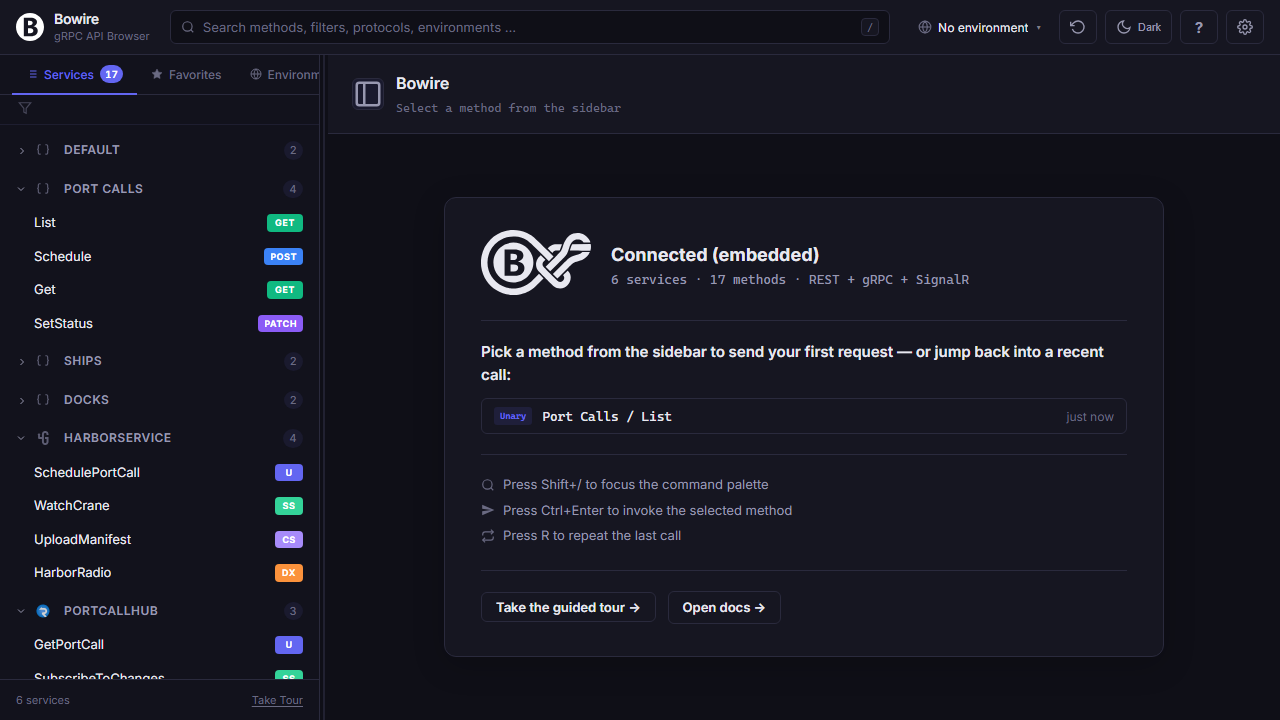
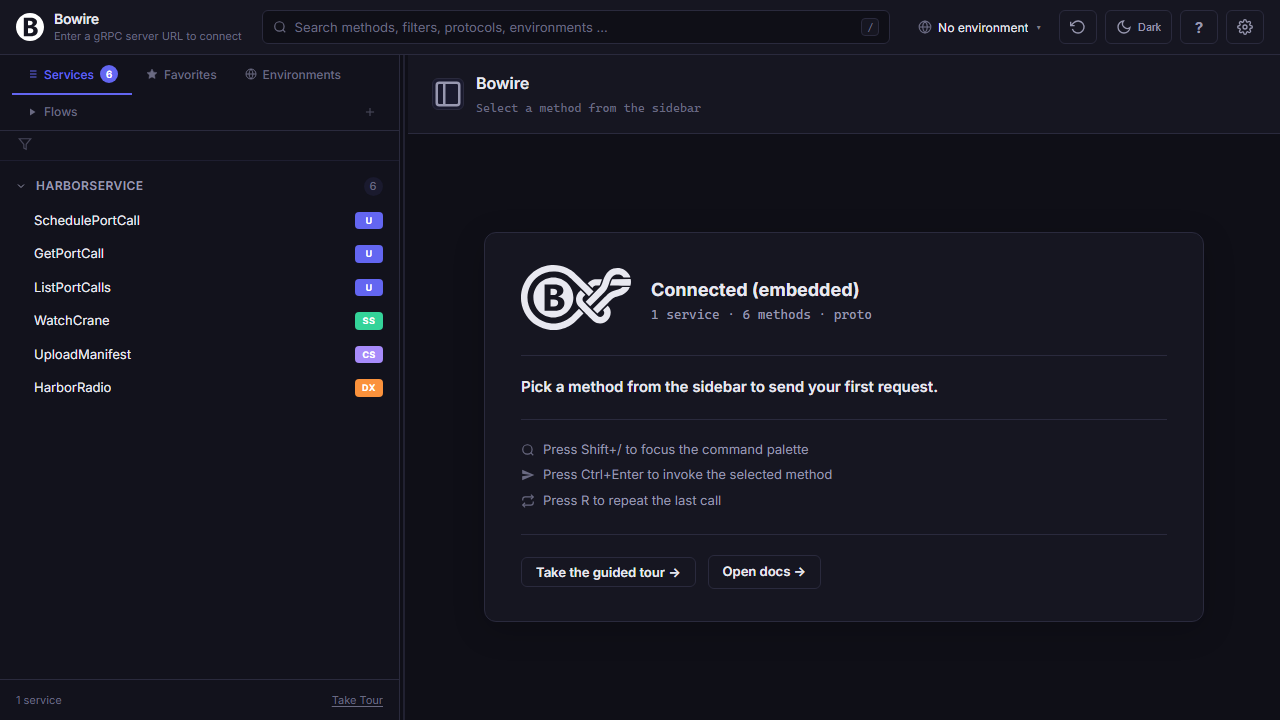
site: recapture schema-upload screenshot via real /api/proto/upload
The old schema-upload.png was the same kind of broken capture as
the empty-state screenshots fixed in 2c1dcd5 — it showed a fully
connected workbench with services and the URL header, rather than
the offline-schema-only state the surrounding caption claims.
Whoever ran the previous capture had bowire connected to a live
sample, so the screenshot looked indistinguishable from the
'Connected & ready' shot one card over.

The fix: a new scripts/capture-schema-upload.js that POSTs a real
.proto into /api/proto/upload — the same endpoint the in-UI drop
zone calls — before driving Playwright through the capture. This
sidesteps the Playwright setInputFiles pitfall (the drop zone
constructs its <input type="file"> dynamically inside the click
handler and immediately .click()s it, so there's no stable
element to target). POSTing to the endpoint is the more honest
reproduction: bytes go in the same path the user's drag-drop
would take.

The captured page now visually matches its caption — header
subtitle reads 'Enter a gRPC server URL to connect' (i.e. no URL
configured, the offline mode that the schema-upload value-prop
sells), sidebar shows the six methods parsed from harbor.proto
(SchedulePortCall, GetPortCall, ListPortCalls, WatchCrane,
UploadManifest, HarborRadio), and the centre card labels the
source as 'proto' instead of a URL. The light-theme variant
mirrors the dark one.

The harbor.proto used as the input lives in the sibling
[…]

diff --git a/scripts/capture-schema-upload.js b/scripts/capture-schema-upload.js
@@ -1,0 +1,110 @@
+/**
+ * Captures the schema-upload state by:
+ *   1. expecting a bowire process running in first-run mode (no --url)
+ *      on the configured port (default 5185 — start it externally before
+ *      invoking this script);
+ *   2. POSTing a real .proto into /api/proto/upload — the same endpoint
+ *      the in-UI drop zone uses, so the resulting visual is byte-for-
+ *      byte what a user gets after dropping a file;
+ *   3. driving Playwright to navigate, switch the source-mode tab to
+ *      "Proto", wait until the discovered services render, and shoot
+ *      the page in both themes.
+ *
+ * We deliberately don't go through the Playwright `setInputFiles` path —
+ * the in-UI drop zone constructs its <input type="file"> dynamically
+ * inside the click handler and immediately calls .click(), so there's
+ * no stable element to target. POSTing to the same endpoint the click
+ * handler hits is the cleaner reproduction.
+ *
+ * Outputs:
+ *   site/assets/images/screenshots/schema-upload-{dark,light}.png
+ *   site/assets/images/screenshots/schema-upload.png    (THEME=dark only)
+ *   docs/images/bowire-schema-upload-{dark,light}.png
+ *   docs/images/bowire-schema-upload.png                (THEME=dark only)
+ */
+const { chromium } = require('@playwright/test');
+const path = require('path');
+const fs = require('fs');
+
+const SITE_OUT = path.resolve(__dirname, '..', 'site', 'assets', 'images', 'screenshots');
+const DOCS_OUT = path.resolve(__dirname, '..', 'docs', 'images');
+const PORT = Number(process.env.PORT || 5185);
+const THEME = (process.env.THEME || 'dark').toLowerCase();
+const PROTO = process.env.PROTO || path.resolve(
+    __dirname, '..', '..', 'Bowire.Samples',
+    'src', 'Kuestenlogik.Bowire.Samples.Grpc', 'Protos', 'harbor.proto'
+);
+
+function log(m) { console.log(new Date().toISOString().slice(11, 19), m); }
+
+async function uploadProto() {
+    if (!fs.existsSync(PROTO)) {
+        throw new Error(`proto file not found: ${PROTO}`);
+    }
+    const body = fs.readFileSync(PROTO, 'utf8');
+    // Clear any previously uploaded protos so the screenshot is
+    // deterministic — older captures could otherwise stack services.
+    await fetch(`http://localhost:${PORT}/api/proto/upload`, { method: 'DELETE' }).catch(() => {});
+    const res = await fetch(`http://localhost:${PORT}/api/proto/upload`, {
+        method: 'POST',
+        body,
+        headers: { 'content-type': 'text/plain' },
+    });
+    if (!res.ok) {
+        throw new Error(`/api/proto/upload returned ${res.status}: ${await res.text()}`);
+    }
+    log(`uploaded ${path.basename(PROTO)} (${body.length} bytes)`);
+}
+
+(async () => {
+    log(`port ${PORT}, theme ${THEME}`);
+    await uploadProto();
+
+    const browser = await chromium.launch({ headless: true });
+    const ctx = await browser.newContext({
+        viewport: { width: 1280, height: 720 },
+        ignoreHTTPSErrors: true,
+        colorScheme: THEME,
+    });
+    const page = await ctx.newPage();
+    await page.emulateMedia({ colorScheme: THEME });
+
+    await page.goto(`http://localhost:${PORT}/`, { waitUntil: 'domcontentloaded' });
+    await page.evaluate((t) => {
+        try { localStorage.setItem('bowire_theme_pref', t); } catch { }
+        try { localStorage.setItem('bowire_source_mode', 'proto'); } catch { }
+    }, THEME);
+    await page.reload({ waitUntil: 'domcontentloaded' });
+    await page.waitForSelector('#bowire-app.bowire-app-ready', { timeout: 20000 });
+
+    // Make sure we're on the "Proto" source-mode tab — even with the
+    // localStorage seed above the URL tab might still be selected on
+    // first paint; clicking is idempotent if it's already active.
+    const protoTab = page.locator('#bowire-source-tab-proto');
+    if (await protoTab.count() > 0) {
+        await protoTab.click().catch(() => {});
+    }
+
+    // Wait for either the imported services to render in the sidebar
+    // or the drop-zone-with-"N services loaded" badge — both prove the
+    // upload landed and the UI rebuilt itself off the new schema.
+    await page.waitForFunction(() => {
+        const t = (document.body && document.body.innerText) || '';
+        return /service[s]? loaded|HarborService/i.test(t);
+    }, { timeout: 20000 }).catch(() => {});
+    await page.waitForTimeout(800);
+
+    const siteFile = path.join(SITE_OUT, `schema-upload-${THEME}.png`);
+    const docsFile = path.join(DOCS_OUT, `bowire-schema-upload-${THEME}.png`);
+    await page.screenshot({ path: siteFile, fullPage: false });
+    fs.copyFileSync(siteFile, docsFile);
+    if (THEME === 'dark') {
+        fs.copyFileSync(siteFile, path.join(SITE_OUT, 'schema-upload.png'));
+        fs.copyFileSync(siteFile, path.join(DOCS_OUT, 'bowire-schema-upload.png'));
+    }
+    log(`  -> schema-upload-${THEME}.png`);
+
+    await ctx.close();
+    await browser.close();
+    log('done');
+})();
